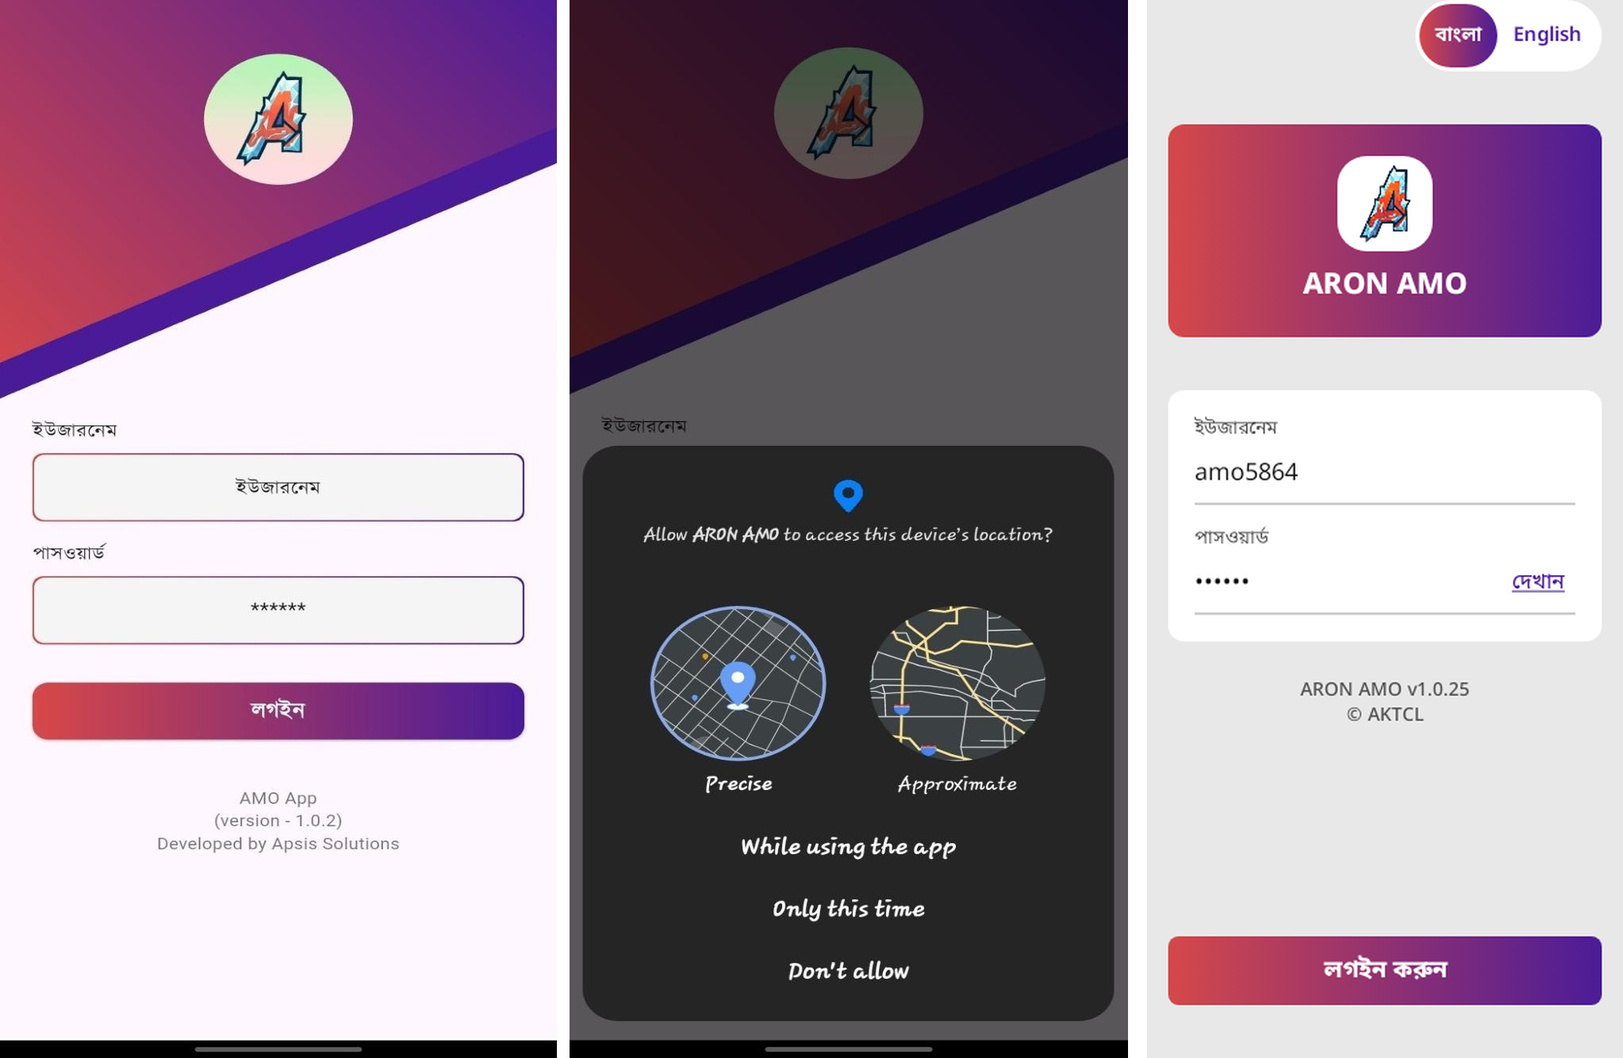
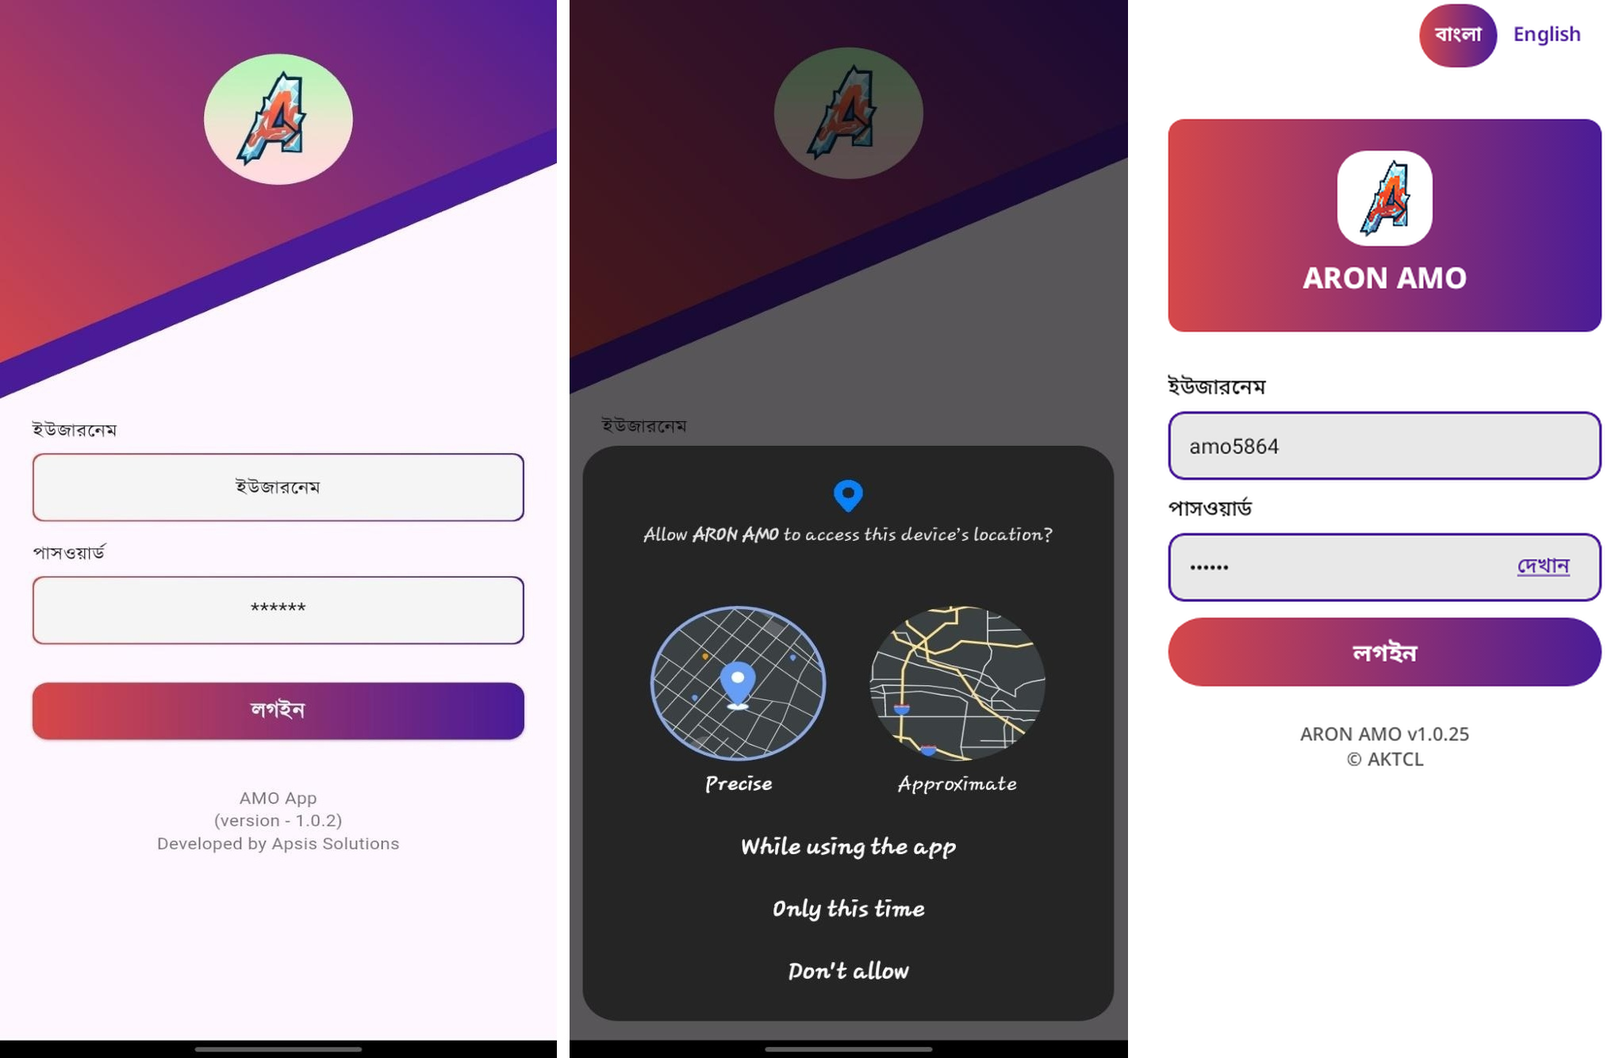
fix(amo-shell): device-walk rows 3, 8, 9, 77 and the back-invoked flag on the AMO app
Claude-Session: https://claude.ai/code/session_014mnioNxtiaZHio9Fs8RoRn

diff --git a/android/feature-auth/src/main/kotlin/com/aktcl/aron/feature/auth/AmoLogin.kt b/android/feature-auth/src/main/kotlin/com/aktcl/aron/feature/auth/AmoLogin.kt
@@ -1,0 +1,168 @@
+package com.aktcl.aron.feature.auth
+
+import androidx.compose.foundation.BorderStroke
+import androidx.compose.foundation.background
+import androidx.compose.foundation.border
+import androidx.compose.foundation.clickable
+import androidx.compose.foundation.layout.Arrangement
+import androidx.compose.foundation.layout.Box
+import androidx.compose.foundation.layout.Column
+import androidx.compose.foundation.layout.Row
+import androidx.compose.foundation.layout.Spacer
+import androidx.compose.foundation.layout.WindowInsets
+import androidx.compose.foundation.layout.WindowInsetsSides
+import androidx.compose.foundation.layout.fillMaxSize
+import androidx.compose.foundation.layout.fillMaxWidth
+import androidx.compose.foundation.layout.height
+import androidx.compose.foundation.layout.heightIn
+import androidx.compose.foundation.layout.imePadding
+import androidx.compose.foundation.layout.only
+import androidx.compose.foundation.layout.padding
+import androidx.compose.foundation.layout.safeDrawing
+import androidx.compose.foundation.layout.windowInsetsPadding
+import androidx.compose.foundation.rememberScrollState
+import androidx.compose.foundation.shape.RoundedCornerShape
+import androidx.compose.foundation.text.BasicTextField
+import androidx.compose.foundation.text.KeyboardActions
+import androidx.compose.foundation.text.KeyboardOptions
+import androidx.compose.foundation.verticalScroll
+import androidx.compose.material3.MaterialTheme
+import androidx.compose.material3.Text
+import androidx.compose.runtime.Composable
+import androidx.compose.ui.Alignment
+import androidx.compose.ui.Modifier
+import androidx.compose.ui.draw.clip
+import androidx.compose.ui.graphics.Color
+import androidx.compose.ui.graphics.SolidColor
+import androidx.compose.ui.platform.testTag
+import androidx.compose.ui.res.stringResource
+import androidx.compose.ui.semantics.Role
+import androidx.compose.ui.semantics.contentDescription
+import androidx.compose.ui.semantics.semantics
+import androidx.compose.ui.text.TextStyle
+import androidx.compose.ui.text.font.FontWeight
+import androidx.compose.ui.text.input.ImeAction
+import androidx.compose.ui.text.input.KeyboardType
+import androidx.compose.ui.text.input.PasswordVisualTransformation
+import androidx.compose.ui.text.input.VisualTransformation
+import androidx.compose.ui.text.style.TextAlign
+import androidx.compose.ui.unit.dp
+import androidx.compose.ui.unit.sp
+import com.aktcl.aron.core.common.AppLanguage
+import com.aktcl.aron.core.ui.AronTokens
+import com.aktcl.aron.core.ui.LocalAronLook
+import com.aktcl.aron.core.ui.aron.barBrush
+
+/**
+ * The AMO login (screenshot 03, owner device walk of build 1860): the brand block, then "Username" and "Password" labels ABOVE grey rounded
+ * boxes with a thin purple outline, the "Login" pill straight under the fields (not in a bottom bar), and the footer line. Like the vendor
+ * screen the pill stays pressable with empty fields; pressing it then shows the empty-fields message. The sun switch and language toggle
+ * stay in the top row (constraint 8); the refusal and offline messages are the shared notice cards. [footerText] is shown verbatim.
+ */
+@Composable
+fun AmoLoginContent(
+    state: LoginUiState,
+    appTitle: String,
+    versionName: String,
+    onUsernameChange: (String) -> Unit,
+    onPasswordChange: (String) -> Unit,
+    onTogglePasswordVisible: () -> Unit,
+    onSubmit: () -> Unit,
+    onLanguageSelect: (AppLanguage) -> Unit,
+    onEnrol: (() -> Unit)? = null,
+    sunlight: Boolean = false,
+    onSunlight: ((Boolean) -> Unit)? = null,
+    footerText: String? = null,
+) {
+    val look = LocalAronLook.current
+    val wrong = state.message == LoginMessage.InvalidCredentials || state.message == LoginMessage.OfflineWrongPassword
+    Column(
+        Modifier
+            .fillMaxSize()
+            .background(look.pageHome)
+            .windowInsetsPadding(WindowInsets.safeDrawing.only(WindowInsetsSides.Bottom + WindowInsetsSides.Horizontal))
+            .imePadding()
+            .verticalScroll(rememberScrollState())
+            .padding(horizontal = AronTokens.Space.Screen),
+        verticalArrangement = Arrangement.spacedBy(AronTokens.Space.M),
+    ) {
+        AuthTopRow(onLanguageSelect, sunlight, onSunlight)
+        Spacer(Modifier.height(AronTokens.Space.M))
+        BrandBlock(appTitle)
+        Spacer(Modifier.height(AronTokens.Space.S))
+        AmoLoginField(
+            stringResource(R.string.auth_username), state.username, onUsernameChange, LoginTags.USERNAME,
+            enabled = !state.busy, error = wrong, keyboardType = KeyboardType.Ascii, imeAction = ImeAction.Next,
+        )
+        AmoLoginField(
+            stringResource(R.string.auth_password), state.password, onPasswordChange, LoginTags.PASSWORD,
+            enabled = !state.busy, error = wrong, password = !state.passwordVisible, imeAction = ImeAction.Done,
+            onImeAction = { if (!state.busy) onSubmit() },
+            trailing = { AuthLink(stringResource(if (state.passwordVisible) R.string.auth_password_hide else R.string.auth_password_show), onTogglePasswordVisible) },
+        )
+        state.message?.let { message ->
+            LoginMessageCard(message, Modifier.testTag(LoginTags.MESSAGE))
+            if (message == LoginMessage.DeviceNotEnrolled && onEnrol != null) {
+                AuthLink(stringResource(R.string.enrol_title), onEnrol, Modifier.fillMaxWidth().testTag(LoginTags.ENROL))
+            }
+        }
+        // the pill: the bar ramp (red to purple), white bold label; busy keeps the label and holds the press
+        Box(
+            Modifier
+                .fillMaxWidth()
+                .heightIn(min = 52.dp)
+                .clip(RoundedCornerShape(50))
+                .background(look.barBrush())
+                .clickable(enabled = !state.busy, role = Role.Button, onClick = onSubmit)
+                .testTag(LoginTags.SUBMIT),
+            contentAlignment = Alignment.Center,
+        ) {
+            Text(
+                stringResource(if (state.busy) R.string.auth_logging_in else R.string.auth_tso_login),
+                style = TextStyle(color = look.onBar, fontSize = 18.sp, fontWeight = FontWeight.Bold), textAlign = TextAlign.Center,
+            )
+        }
+        AuthFooter(footerText ?: com.aktcl.aron.core.ui.localizedDigits(stringResource(R.string.auth_version, versionName)), Modifier.testTag(LoginTags.VERSION))
+    }
+}
+
+/** A label above a grey rounded box with a thin outline (red when [error]); the tag goes on the editable node, [label] is its accessible name. */
+@Composable
+private fun AmoLoginField(
+    label: String,
+    value: String,
+    onValueChange: (String) -> Unit,
+    tag: String,
+    enabled: Boolean,
+    error: Boolean,
+    keyboardType: KeyboardType = KeyboardType.Text,
+    imeAction: ImeAction = ImeAction.Default,
+    onImeAction: (() -> Unit)? = null,
+    password: Boolean = false,
+    trailing: (@Composable () -> Unit)? = null,
+) {
+    val look = LocalAronLook.current
+    val shape = RoundedCornerShape(12.dp)
+    Column(verticalArrangement = Arrangement.spacedBy(6.dp)) {
+        Text(label, style = MaterialTheme.typography.bodyMedium, color = look.ink)
+        BasicTextField(
+            value = value, onValueChange = onValueChange, enabled = enabled, singleLine = true,
+            textStyle = TextStyle(color = look.ink, fontSize = 16.sp),
+            cursorBrush = SolidColor(look.purple),
+            visualTransformation = if (password) PasswordVisualTransformation() else VisualTransformation.None,
+            keyboardOptions = KeyboardOptions(keyboardType = if (password) KeyboardType.Password else keyboardType, imeAction = imeAction),
+            keyboardActions = KeyboardActions(onDone = { onImeAction?.invoke() }),
+            modifier = Modifier.fillMaxWidth().testTag(tag).semantics { contentDescription = label },
+            decorationBox = { inner ->
+                Row(
+                    Modifier.fillMaxWidth().heightIn(min = 52.dp).clip(shape).background(look.page)
+                        .border(BorderStroke(1.5.dp, if (error) look.red else look.purple), shape).padding(horizontal = 16.dp),
+                    verticalAlignment = Alignment.CenterVertically,
+                ) {
+                    Box(Modifier.weight(1f)) { inner() }
+                    trailing?.invoke()
+                }
+            },
+        )
+    }
+}

diff --git a/android/feature-amo/src/main/kotlin/com/aktcl/aron/feature/amo/AmoHome.kt b/android/feature-amo/src/main/kotlin/com/aktcl/aron/feature/amo/AmoHome.kt
@@ -14,6 +14,7 @@ import androidx.compose.foundation.layout.WindowInsetsSides
 import androidx.compose.foundation.layout.fillMaxSize
 import androidx.compose.foundation.layout.fillMaxWidth
 import androidx.compose.foundation.layout.heightIn
+import androidx.compose.foundation.layout.widthIn
 import androidx.compose.foundation.layout.only
 import androidx.compose.foundation.layout.padding
 import androidx.compose.foundation.layout.safeDrawing
@@ -54,7 +55,6 @@ import androidx.compose.ui.text.font.FontWeight
 import androidx.compose.ui.unit.dp
 import androidx.compose.ui.unit.sp
 import com.aktcl.aron.core.common.AppLanguage
-import com.aktcl.aron.core.ui.AronConfirmDialog
 import com.aktcl.aron.core.ui.AronIcons
 import com.aktcl.aron.core.ui.AronFonts
 import com.aktcl.aron.core.ui.SyncChipState
@@ -195,6 +195,7 @@ object AmoHomeTags {
     const val LANGUAGE = "amo_set_language"
     const val TARGETS = "amo_targets"
     const val COLLAPSE = "amo_collapse"
+    const val LOGOUT_DIALOG = "amo_logout_dialog"
     /** Stable names: today, total, control, joint. */
     fun target(key: String) = "amo_target_$key"
 }
@@ -251,6 +252,7 @@ fun AmoHomeContent(
                     AronTile(
                         stringResource(t.label), tilePainter(t.id), onClick = { onTile(t) }, modifier = m.testTag(RoleHomeTags.tile(t.id)),
                         badge = t.badge, badgeDescription = if (t.badge > 0) stringResource(CoreR.string.core_ui_tile_badge, localizedNumber(t.badge.toLong())) else null,
+                        showZeroBadge = t.id == AmoMenu.tileId(AmoLeaf.OUTLET),
                     )
                 }
                 Box(
@@ -294,7 +296,7 @@ private fun amoSyncText(state: SyncChipState): String = when (state) {
 @Composable
 private fun amoBundleLine(status: BundleStatus): String = when (status) {
     BundleStatus.Checking -> stringResource(HomeR.string.home_bundle_checking)
-    is BundleStatus.Ready -> stringResource(HomeR.string.home_bundle_ready, localizedDigits(status.validFor), status.bundleVersion)
+    is BundleStatus.Ready -> stringResource(HomeR.string.home_bundle_ready, localizedDigits(status.validFor), localizedDigits(status.bundleVersion))
     BundleStatus.Unchanged -> stringResource(HomeR.string.home_bundle_unchanged)
     BundleStatus.Offline -> stringResource(HomeR.string.home_bundle_offline)
     is BundleStatus.Refused -> stringResource(HomeR.string.home_bundle_refused, status.httpStatus.toString(), status.code ?: "-")
@@ -453,10 +455,39 @@ fun AmoSettingsContent(
         }
     }
     if (confirm) {
-        AronConfirmDialog(
-            stringResource(HomeR.string.set_logout_title), logoutMessage,
-            stringResource(HomeR.string.set_logout_confirm), stringResource(HomeR.string.set_cancel),
+        AmoLogoutDialog(
+            stringResource(HomeR.string.set_logout_title), logoutMessage, stringResource(HomeR.string.set_logout_confirm), stringResource(HomeR.string.set_cancel),
             onConfirm = { confirm = false; onLogout() }, onDismiss = { confirm = false },
         )
+    }
+}
+
+/**
+ * The log-out confirmation of screenshot 77: a white card with large round corners, the blue "i" disc, the question centred in blue, and
+ * a green "yes" (left) and a red "no" (right) as small rounded rectangles, white bold labels. Fills are the deep AMO tokens (7:1).
+ * The data-kept note of the role (F-SYS-022; not on the vendor dialog, a standing rule) stays as one small line under the question.
+ */
+@Composable
+internal fun AmoLogoutDialog(question: String, note: String, yes: String, no: String, onConfirm: () -> Unit, onDismiss: () -> Unit) {
+    val look = LocalAronLook.current
+    val blue = look.choiceFill ?: look.purple
+    androidx.compose.ui.window.Dialog(onDismissRequest = onDismiss) {
+        Column(
+            Modifier.fillMaxWidth().testTag(AmoHomeTags.LOGOUT_DIALOG).clip(RoundedCornerShape(24.dp)).background(Color.White).padding(horizontal = 24.dp, vertical = 20.dp),
+            horizontalAlignment = Alignment.CenterHorizontally, verticalArrangement = Arrangement.spacedBy(16.dp),
+        ) {
+            androidx.compose.material3.Icon(AronIcons.Info, contentDescription = null, tint = blue, modifier = Modifier.size(44.dp))
+            Text(question, style = inkStyle(18, bold = true, color = blue), textAlign = androidx.compose.ui.text.style.TextAlign.Center)
+            Text(note, style = inkStyle(13), textAlign = androidx.compose.ui.text.style.TextAlign.Center)
+            Row(Modifier.fillMaxWidth(), horizontalArrangement = Arrangement.spacedBy(12.dp, Alignment.End)) {
+                listOf(Triple(yes, look.primaryStart ?: look.purple, onConfirm), Triple(no, look.stopFill ?: look.red, onDismiss)).forEach { (label, fill, act) ->
+                    Box(
+                        Modifier.heightIn(min = 48.dp).widthIn(min = 72.dp).clip(RoundedCornerShape(8.dp)).background(fill)
+                            .clickable(role = Role.Button, onClick = act).padding(horizontal = 20.dp),
+                        contentAlignment = Alignment.Center,
+                    ) { Text(label, style = inkStyle(16, bold = true, color = Color.White)) }
+                }
+            }
+        }
     }
 }

diff --git a/android/feature-amo/src/test/kotlin/com/aktcl/aron/feature/amo/AmoAppTest.kt b/android/feature-amo/src/test/kotlin/com/aktcl/aron/feature/amo/AmoAppTest.kt
@@ -13,6 +13,7 @@ import androidx.compose.ui.test.onAllNodesWithText
 import androidx.compose.ui.test.assertIsOff
 import androidx.compose.ui.test.assertTextEquals
 import androidx.compose.ui.test.hasClickAction
+import androidx.compose.ui.test.hasAnyAncestor
 import androidx.compose.ui.test.hasContentDescription
 import androidx.compose.ui.test.hasTestTag
 import androidx.compose.ui.test.hasText
@@ -123,6 +124,15 @@ class AmoAppTest {
         compose.onNode(hasContentDescription(badge), useUnmergedTree = true).assertExists()
         // the language toggle and logout are no longer on Home
         compose.onNodeWithTag(HomeTags.LOGOUT).assertDoesNotExist()
+    }
+
+    @Test
+    fun theOutletTileKeepsItsRedBadgeAtZeroAndNoOtherTileHasOne() {
+        show(AppLanguage.BN, badges = emptyMap())
+        compose.onNodeWithTag(RoleHomeTags.tile(RoleHomes.AmoTile.OUTLET)).performScrollTo()
+        // screenshot 08: a red "০" at zero (Bangla digit); the other tiles draw a badge only above zero
+        compose.onNode(hasText("০") and hasAnyAncestor(hasTestTag(RoleHomeTags.tile(RoleHomes.AmoTile.OUTLET))), useUnmergedTree = true).assertExists()
+        compose.onNode(hasText("০") and hasAnyAncestor(hasTestTag(RoleHomeTags.tile(RoleHomes.AmoTile.ATTENDANCE))), useUnmergedTree = true).assertDoesNotExist()
     }
 
     @Test

diff --git a/android/app-amo/src/main/kotlin/com/aktcl/aron/amo/MainActivity.kt b/android/app-amo/src/main/kotlin/com/aktcl/aron/amo/MainActivity.kt
@@ -135,7 +135,7 @@ class MainActivity : ComponentActivity() {
                             // The bind step (OTP from /device-otp) follows the first login of an enrolled phone.
                             val vm = viewModel { LoginViewModel(components.session::login).also { it.bind = components.session::bindDevice } }
                             // R1: the footer reads "ARON AMO v<version>", never the vendor credit
-                            LoginScreen(vm, stringResource(R.string.app_name), versionName, onLanguageSelect, onEnrol, footerText = stringResource(com.aktcl.aron.feature.amo.R.string.amo_shell_login_footer, stringResource(R.string.app_name), BuildConfig.VERSION_NAME))
+                            LoginScreen(vm, stringResource(R.string.app_name), versionName, onLanguageSelect, onEnrol, variant = com.aktcl.aron.feature.auth.LoginVariant.Amo, footerText = stringResource(com.aktcl.aron.feature.amo.R.string.amo_shell_login_footer, stringResource(R.string.app_name), BuildConfig.VERSION_NAME))
                         }
                         is SessionState.Active -> AronTheme(language, sunlight = sunlight, amo = true) { // D-AMO-MAN-03: the AMO look on every signed-in screen
                             // F-SYS-022: AMO keeps its data; it keeps uploading.

diff --git a/android/ui-screenshots/src/test/kotlin/com/aktcl/aron/uiscreenshots/AmoShellScreenshotTests.kt b/android/ui-screenshots/src/test/kotlin/com/aktcl/aron/uiscreenshots/AmoShellScreenshotTests.kt
@@ -82,7 +82,7 @@ class AmoShellScreenshotTests {
     @Test @Config(qualifiers = "bn-w360dp-h1500dp") fun amo_home_targets_sunlight_bn() = shot("amo_home_targets_sunlight_bn", AppLanguage.BN, sunlight = true) { Home(set) }
 
     // ---- push 2: Login (rows 3, R1), Attendance (14 to 16, R7), Stock (41), Settings (75, R16) ----
-    @Composable private fun Login() = com.aktcl.aron.feature.auth.LoginContent(
+    @Composable private fun Login() = com.aktcl.aron.feature.auth.AmoLoginContent(
         com.aktcl.aron.feature.auth.LoginUiState(username = "amo5864", password = "secret"), "ARON AMO", "1.0.25 (12)", {}, {}, {}, {}, {}, footerText = "ARON AMO v1.0.25",
     )
     @Test @Config(qualifiers = "bn-w360dp-h800dp") fun amo_login_bn() = shot("amo_login_bn", AppLanguage.BN, amoLook = false) { Login() }

diff --git a/android/core-ui/src/main/kotlin/com/aktcl/aron/core/ui/aron/Tiles.kt b/android/core-ui/src/main/kotlin/com/aktcl/aron/core/ui/aron/Tiles.kt
@@ -65,6 +65,8 @@ fun AronTile(
     modifier: Modifier = Modifier,
     badge: Int = 0,
     badgeDescription: String? = null,
+    /** The AMO Outlet tile keeps its red badge at zero (note 08: a red "০"); other tiles draw a badge only above zero. */
+    showZeroBadge: Boolean = false,
     menu: Boolean = false,
     labelColor: Color? = null,
     enabled: Boolean = true,
@@ -93,7 +95,7 @@ fun AronTile(
             Spacer(Modifier.weight(1f).heightIn(min = 8.dp))
             TileLabel(label, labelColor ?: look.tileLabel)
         }
-        if (badge > 0) {
+        if (badge > 0 || (showZeroBadge && badge == 0)) {
             val text = if (badge > 99) localizedDigits("99+") else localizedNumber(badge.toLong())
             Box(
                 Modifier

diff --git a/android/feature-auth/src/main/kotlin/com/aktcl/aron/feature/auth/LoginScreen.kt b/android/feature-auth/src/main/kotlin/com/aktcl/aron/feature/auth/LoginScreen.kt
@@ -70,6 +70,13 @@ fun LoginScreen(
         )
         return
     }
+    if (variant == LoginVariant.Amo && state.bindToken == null) {
+        AmoLoginContent(
+            state, appTitle, versionName, viewModel::onUsernameChange, viewModel::onPasswordChange, viewModel::onTogglePasswordVisible, viewModel::onSubmit,
+            onLanguageSelect, onEnrol, sunlight, onSunlight, footerText,
+        )
+        return
+    }
     if (state.bindToken != null) {
         androidx.activity.compose.BackHandler(onBack = viewModel::onOtpBack)
         OtpContent(

diff --git a/android/feature-auth/src/main/kotlin/com/aktcl/aron/feature/auth/TsoLogin.kt b/android/feature-auth/src/main/kotlin/com/aktcl/aron/feature/auth/TsoLogin.kt
@@ -45,7 +45,7 @@ import com.aktcl.aron.core.ui.aron.NightGlowField
 import com.aktcl.aron.core.ui.aron.nightRoles
 
 /** Which login screen an app shows: the shared field-app login (SR, AMO) or the TSO screen of screenshot 5 (D-TSO-MAN-15). */
-enum class LoginVariant { Standard, Tso }
+enum class LoginVariant { Standard, Tso, Amo }
 
 /** Test tags of the TSO login only (the fields and the button keep [LoginTags]). */
 object TsoLoginTags {

diff --git a/DECISIONS.md b/DECISIONS.md
@@ -1765,3 +1765,4 @@ The sponsor said "hold it": keep the zone-redundant dev resources (about USD 15.
 - **D-AMO-OUTLET-07 (A4; lead checker round 2).** The Cluster host takes the same per-act uuid (`SubmitUuid`, now internal) and busy guard as the other own forms; the uuid lookup runs inside `safeSubmit`'s try (a thrown lookup or save = the save-failed notice, busy reset, draft key untouched); `resolveActUuid` is the tested resolver (`FormDraftsTest`: unstored key reused after a relaunch, stored key takes a new uuid, a throwing lookup leaves the key). The English success text is the vendor's "Data Updated Successfully" (R2).
 - **D-AMO-SHELL-05 (lane android-amo-shell, A1 #2, 2026-11-07; checker items).** `checkoutAfterLabel` formats with `Locale.ROOT` and rejects out-of-range hours/minutes like `clock12`. The AMO login footer is the format string `amo_shell_login_footer` (`%1$s v%2$s`, translatable=false); `LoginContent` shows a given `footerText` verbatim, so the version digits stay Latin in Bangla (the default "Version x" line still goes through `localizedDigits`). The bn copy of `amo_shell_lang_en` is dropped (label "en" in both). The update ribbon takes its colours from the `warning` token plus a black overlay. Goldens added: attendance "waiting" at 200 % and "done" in Sunlight.
 - **D-AMO-SHELL-06 (A1 #2, 2026-11-07; Stock panel gradient).** Screenshot 41 shows a vertical royal-blue (#0B4EA2) to indigo (#3A1E99) panel. New optional look roles `panelTop`/`panelBottom` (set only by `AmoPurple`; null in SR, TSO and AMO Sunlight, which stay solid, so no SR/TSO golden moves); `Modifier.panelBackground(look)` is used by `AronScaffold` and the Stock screen. `TokenContrastTest.amoStockPanelRampHoldsSevenToOneForFigures`: white figures hold 7:1 on both stops.
+- **D-AMO-SHELL-07 (lane android-amo-shell, A1 #2, 2026-11-10; device-walk build 1860 re-verified on train 83).** Fixed: (row 3) the AMO login is its own variant `LoginVariant.Amo` / `AmoLoginContent` (labels above grey rounded boxes with a thin outline, the "লগইন" pill straight under the fields, footer verbatim "ARON AMO v<version>" with Latin digits; OTP step unchanged); (row 8) the Outlet tile keeps its red badge at zero ("০", `AronTile(showZeroBadge)`; the badge map and TalkBack text still only above zero); (row 9) the bundle version in the sync line goes through `localizedDigits`; (row 77) `AmoLogoutDialog`: white card, 24 dp corners, blue info disc, centred blue question, green "হ্যাঁ" left and red "না" right as small rounded rectangles (deep tokens, 7:1); (logs) `android:enableOnBackInvokedCallback="true"` on the AMO application only. NOT changed, by rule: the four tile icons (জয়েন্ট কল, কন্ট্রোল কল, লাইভ ড্যাশবোর্ড, রিপোর্ট) stay our own artwork (docs/32 s4, never the vendor's icons; the metaphor is close, the drawing is ours); the target cards stay deep blue #0B5A8C, not the sky blue ~#1AB4E8, because white figures on it would be about 2:1 and the owner's outdoor rule (key figures 7:1) wins over the screenshot; primary buttons stay solid deep green in the signed-in screens (7:1) with the pill only on the login (note 03); the logout dialog keeps one small line "your saved work stays on this phone" (F-SYS-022 standing rule, not on the vendor dialog). Not reproducible without the device log: "Invalid resource ID 0x00000000" (no code path found that passes resource 0; needs the logcat line with its stack). Rows 75 (three tiles) was already fixed in push 2 (golden amo_settings_bn).
